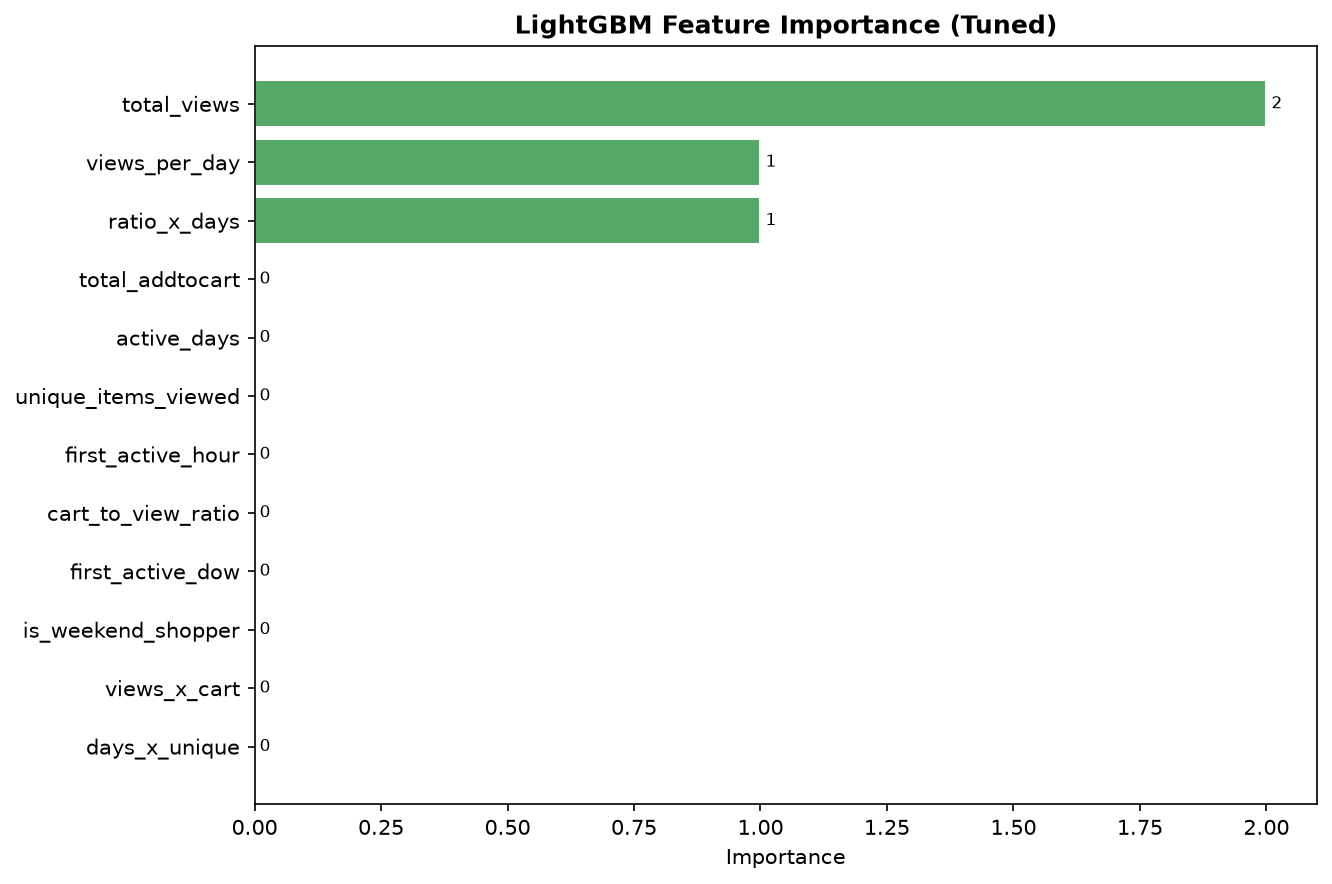
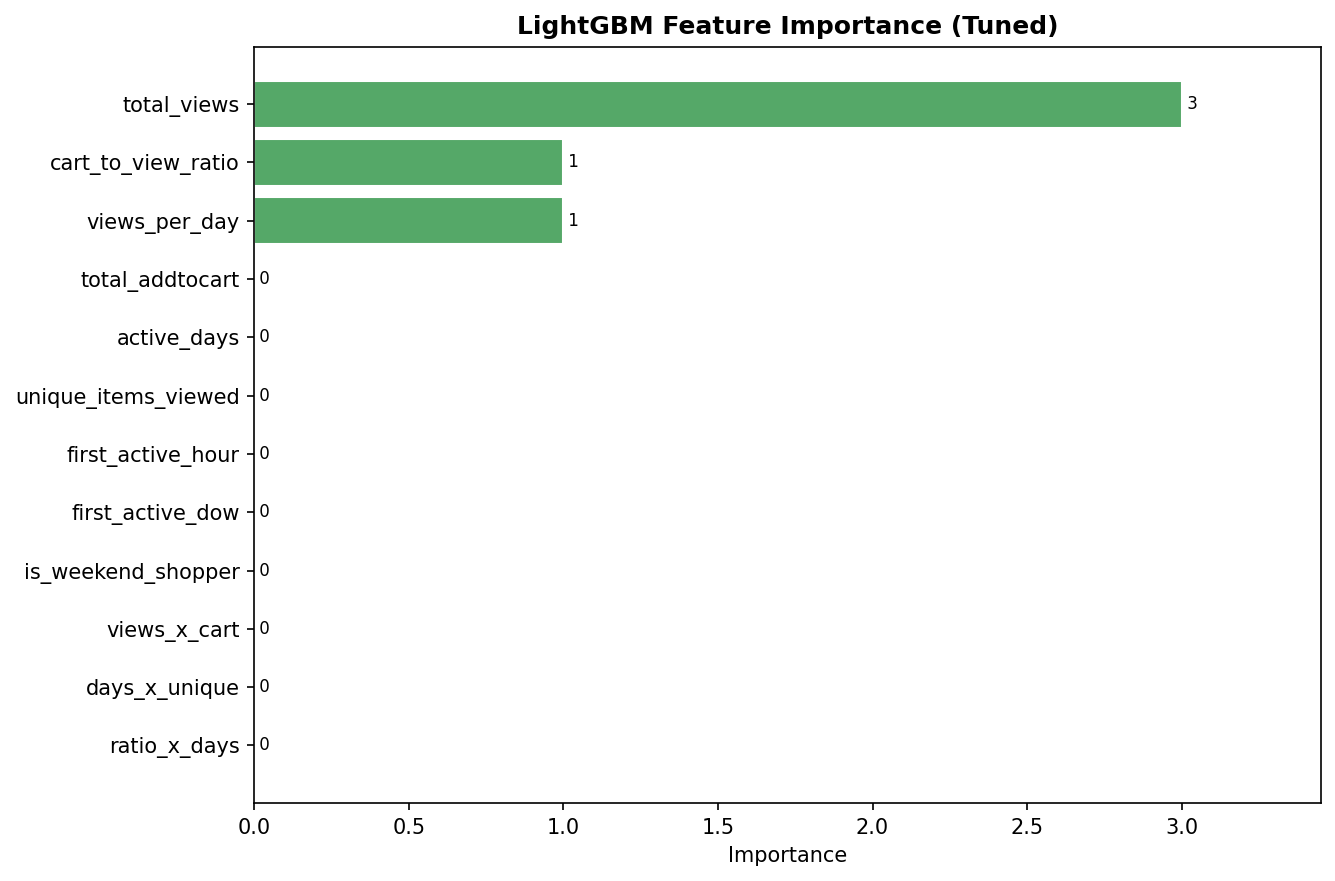
Lab 1.4: refresh script & output

diff --git a/optuna_tuning.py b/optuna_tuning.py
@@ -161,10 +161,7 @@ def lgb_objective(trial):
 
         # Define a float log-scale range between 0.01 and 0.3
         'learning_rate': trial.suggest_float(
-            'learning_rate',
-            0.01,
-            0.3,
-            log=True
+            'learning_rate', 0.01, 0.3, log=True
         ),
 
         # Define an integer leaf node range between 20 and 150
@@ -225,16 +222,19 @@ study = optuna.create_study(
 
 # TODO: Optimize the study running the lgb_objective routine across 30 distinct trials
 t0 = time.time()
+
 study.optimize(
     lgb_objective,
     n_trials=30,
     show_progress_bar=False
 )
+
 optuna_search_time = time.time() - t0
 
 print(f"\n    Best CV AUC  : {study.best_value if study is not None else 0:.4f}")
 print(f"    Search time  : {optuna_search_time:.1f}s")
 print(f"    Best params  :")
+
 if study is not None:
     for k, v in study.best_params.items():
         print(f"      {k:<25}: {v}")
@@ -246,6 +246,7 @@ print("\n[6] Retraining final LightGBM with best params...")
 
 # TODO: Extract and append background parameters onto the best configuration output found by your study
 best_params = {}
+
 if study is not None:
     best_params = study.best_params.copy()
 
@@ -286,7 +287,7 @@ print(f"    Training time        : {lgb_tuned_time:.1f}s")
 # ---------------------------------------------------------------------------
 print("\n[7] PARETO TRADEOFF — AUC vs Training Time:")
 print(f"\n    {'Model':<35} {'AUC':>8} {'AP':>8} {'Time(s)':>9} {'AUC/sec':>10}")
-print(f"    {'-' * 72}")
+print(f"    {'-'*72}")
 
 # TODO: Construct and display metrics analyzing execution time against raw classification score gains
 model_results = [
@@ -422,7 +423,7 @@ print(lgb_imp.to_string(index=False) if lgb_imp is not None else "    Not Implem
 fig, ax = plt.subplots(figsize=(9, 6))
 
 # TODO: Render a horizontal layout tracking relative features metrics using ax.barh()
-plot_imp = lgb_imp.iloc[::-1]
+plot_imp = lgb_imp.iloc[::-1].copy()
 
 ax.barh(
     plot_imp['feature'],
@@ -430,6 +431,10 @@ ax.barh(
     color='#55A868',
     edgecolor='white'
 )
+
+ax.set_title("LightGBM Feature Importance (Tuned)", fontweight='bold')
+ax.set_xlabel("Importance")
+ax.set_xlim(0, plot_imp['importance'].max() * 1.15)
 
 for index, importance in enumerate(plot_imp['importance']):
     ax.text(
@@ -440,8 +445,6 @@ for index, importance in enumerate(plot_imp['importance']):
         fontsize=8
     )
 
-ax.set_title("LightGBM Feature Importance (Tuned)", fontweight='bold')
-ax.set_xlabel("Importance")
 plt.tight_layout()
 plt.savefig("output/04_lgb_feature_importance.png", dpi=150, bbox_inches='tight')
 plt.show()
